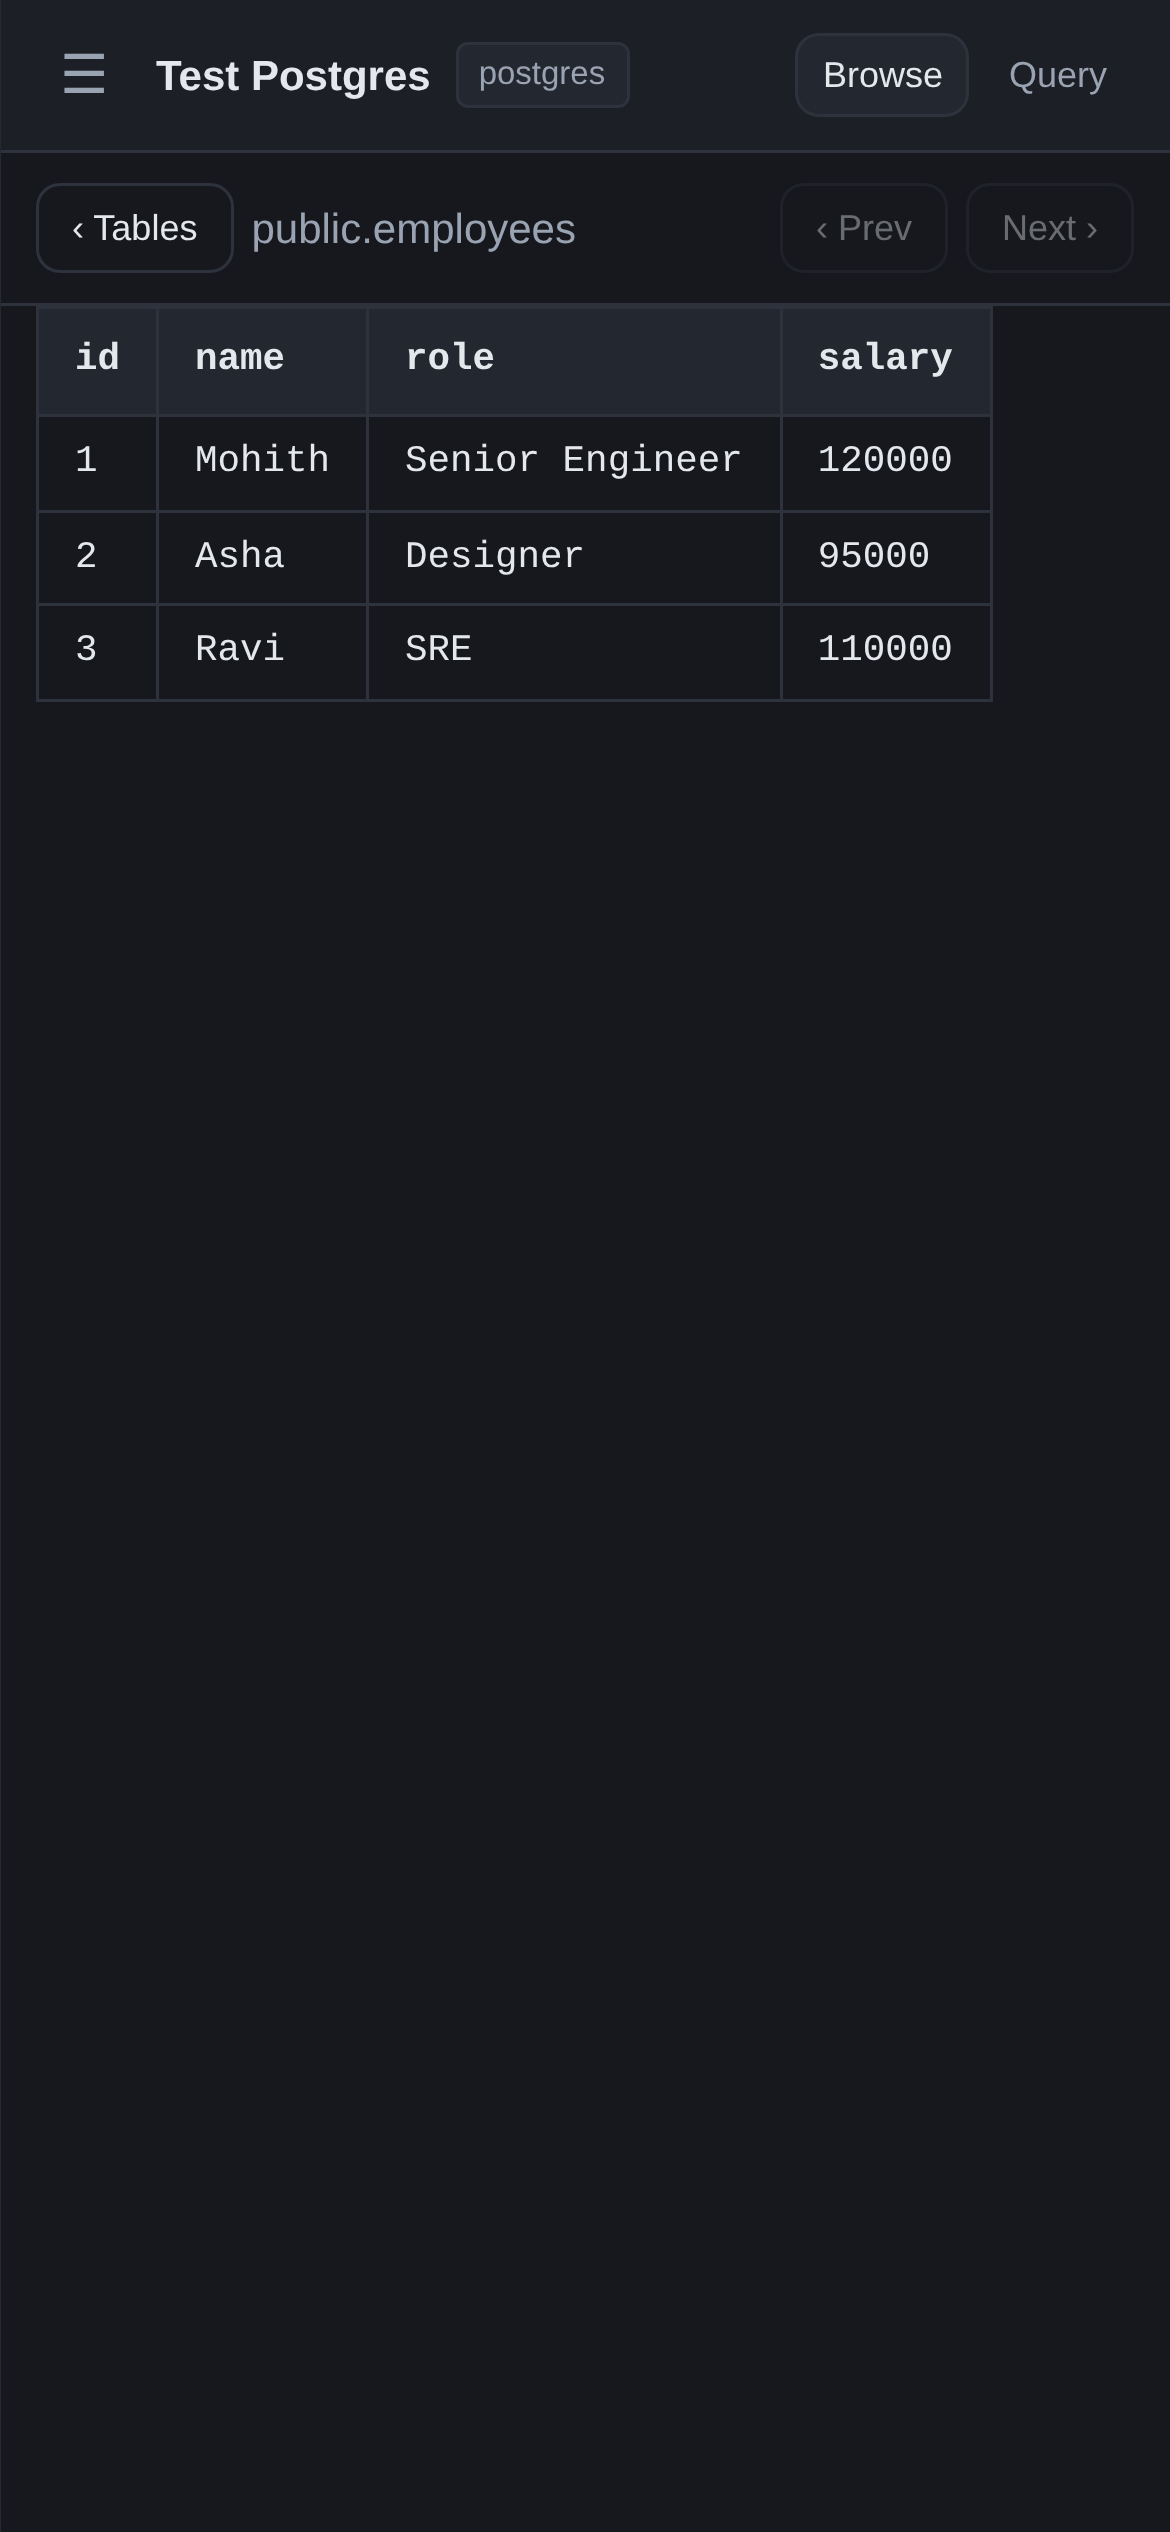
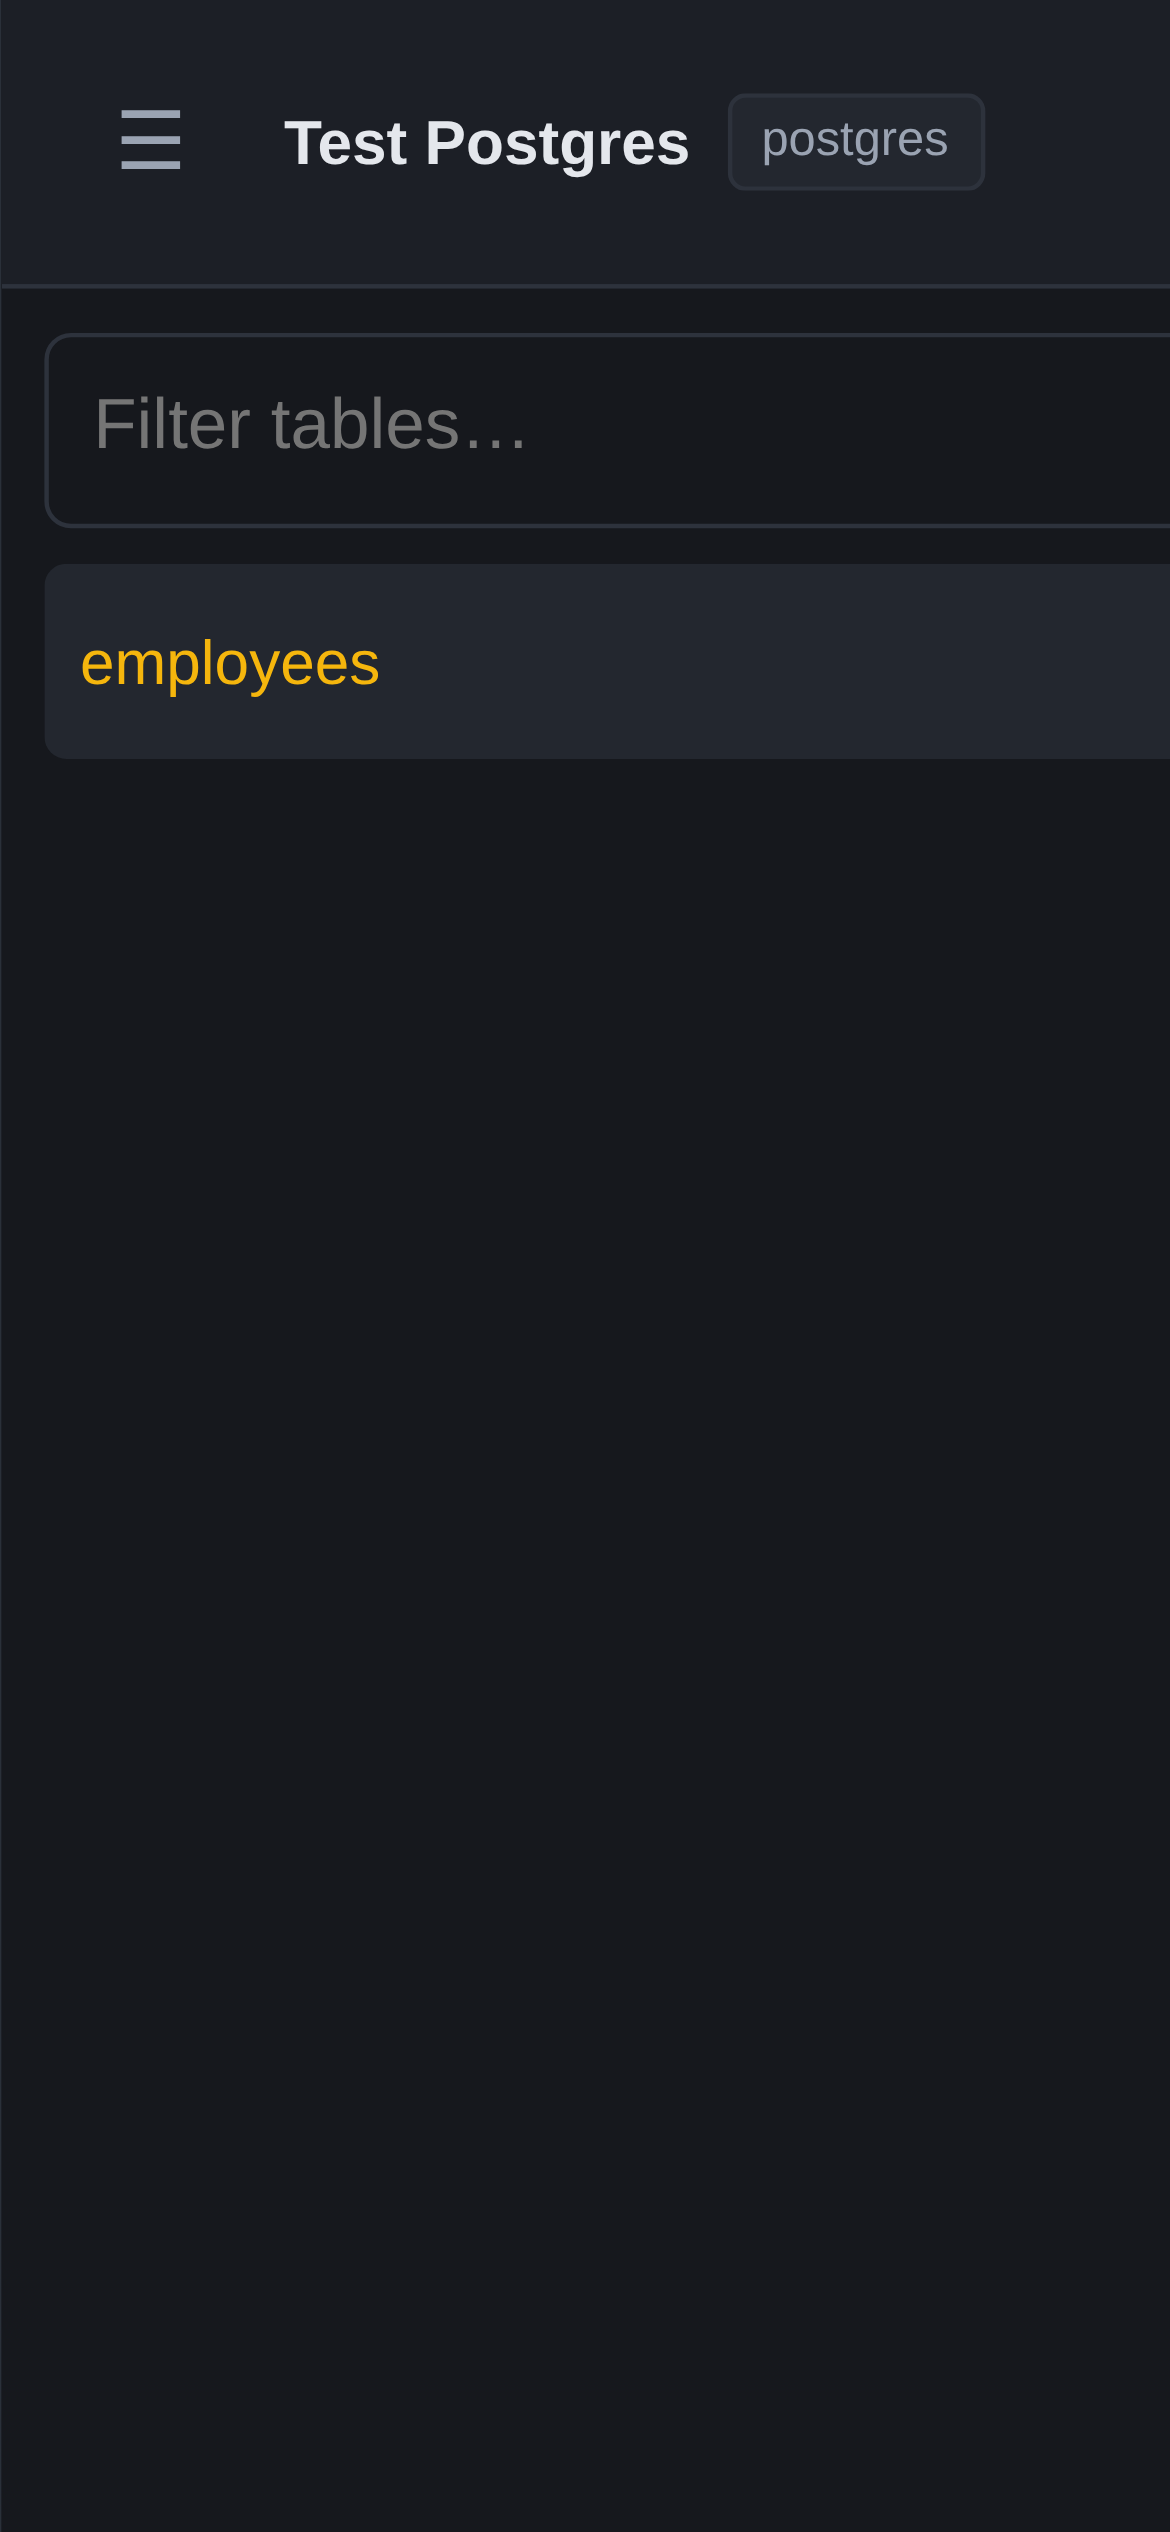
Stop off-canvas panels extending the horizontal scroll width
The sliding data pane parks at translateX(100%) and the drawer at -100%,
so both sat outside the viewport but still counted toward the document
scroll width: scrollWidth measured 780 on a 390px screen and window.scrollX
reached 390, letting a sideways swipe drag the whole page into blank space.
overflow:hidden on body alone did not clip this because html is the
scrolling element, so the clip now sits on html plus the browse container.

diff --git a/public/app.css b/public/app.css
@@ -26,6 +26,12 @@ body {
   -webkit-text-size-adjust: 100%;
 }
 
+/* Off-canvas panels (drawer, sliding data pane) sit outside the viewport and
+   still extend the document's scroll width. overflow:hidden on <body> alone
+   does not clip them when <html> is the scrolling element, which lets a swipe
+   drag the whole page sideways into empty space. */
+html { overflow: hidden; width: 100%; }
+
 .hidden { display: none !important; }
 .muted { color: var(--fg-dim); }
 .tiny { font-size: 12px; }
@@ -322,7 +328,7 @@ input[type="checkbox"]:focus-visible { outline: 2px solid var(--accent); outline
   .tab { padding: 6px 10px; min-height: 44px; display: inline-flex; align-items: center; }
 
   /* Two-step browse: table list fills the pane, data slides in over it. */
-  .browse-split { position: relative; }
+  .browse-split { position: relative; overflow-x: hidden; }
   .table-list {
     width: 100%; border-right: none;
     position: absolute; inset: 0; z-index: 1;
